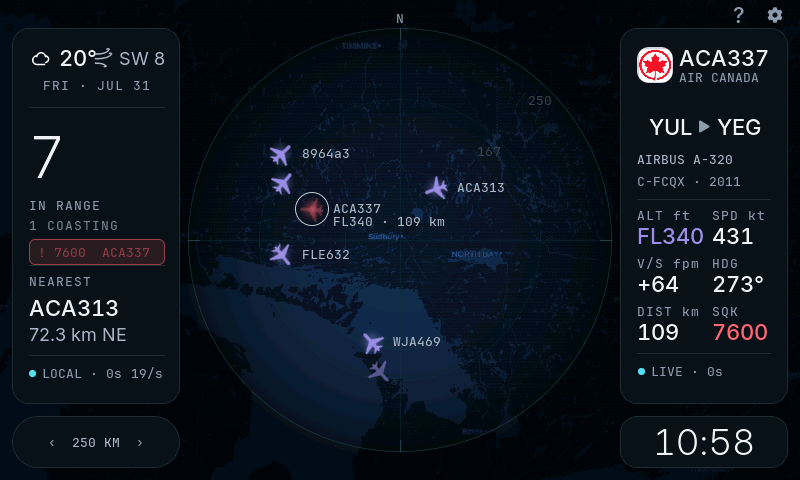
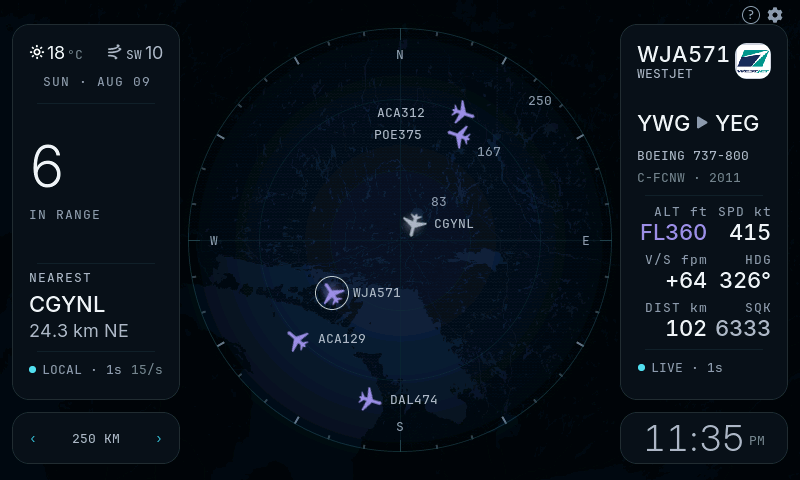
docs: lead with the real panel, move the emergency to the contrast slot
The hero was a genuine 7600 captured in August, and it had become the only
stale image in the README -- labelled dark_all map, no bearing bezel, the
clipped card edge still visible. Waiting for another real emergency is not a
documentation strategy, and the alternative is flashing a build with the state
hardcoded, which is exactly how this device once got boot-looped.

So the ordinary state leads now, from real hardware: six aircraft over the
house, a WestJet 737 pinned with its logo and route, the bezel around the
disc. Everything above the fold is a live /screen.bmp off the panel.

The emergency keeps its place as the contrast case a little further down,
rendered in the harness and captioned as such. It still carries the argument
it was there to make -- red is the one thing that overrides the altitude
palette -- and now it does so with the current chrome.

panel-normal.png is gone; the hero is that image.

diff --git a/README.md b/README.md
@@ -9,11 +9,12 @@ draws the sky above your house on a 7-inch panel.
 
 [![firmware](https://img.shields.io/badge/firmware-v7.2.4-6fc7d8?style=flat-square)](docs/HISTORY.md) [![platform](https://img.shields.io/badge/ESP32--S3-16MB%20%2F%208MB%20PSRAM-9b8ce0?style=flat-square)](docs/HARDWARE.md) [![ui](https://img.shields.io/badge/LVGL-8.3.11-ffc061?style=flat-square)](https://lvgl.io) [![data](https://img.shields.io/badge/API%20keys%20required-none-6fc7d8?style=flat-square)](#data-sources) [![install](https://img.shields.io/badge/install-one--click%20web%20flasher-9b8ce0?style=flat-square)](https://mrronco.github.io/AirRadar/flasher/) [![license](https://img.shields.io/badge/license-GPL--3.0--or--later-ffc061?style=flat-square)](LICENSE)
 
-<img src="docs/img/panel.png" width="820" alt="AirRadar main screen during a real emergency: a full-bleed dark base map with the coverage disc, seven aircraft, and Air Canada 337 squawking 7600 shown as a red glyph with a red alert strip in the Overview card and a red squawk value in the Selected card">
+<img src="docs/img/panel.png" width="820" alt="AirRadar main screen: a full-bleed dark base map under a coverage disc ringed by a graduated bearing bezel, six violet altitude-coloured aircraft with their callsigns, and a WestJet 737 pinned in the right-hand card with its logo, its Winnipeg to Edmonton route and a live instrument grid">
 
-<sub>Live capture off the device via <code>GET /screen.bmp</code> — the actual framebuffer, not a mockup.
-Air Canada 337 is squawking <b>7600</b>, radio failure: red glyph, red squawk, and the alert strip in the
-Overview card. Every other target stays violet, because red means emergency and nothing else.</sub>
+<sub>Live capture off the device via <code>GET /screen.bmp</code> — the actual framebuffer, not a
+mockup, and not a rendering of one. Six aircraft over the house on an ordinary evening; a WestJet
+737 is pinned, so the right-hand card carries its operator logo, route, airframe and a live
+instrument grid. The disc is ringed by a bearing scale graduated every 10°.</sub>
 
 </div>
 
@@ -57,12 +58,15 @@ This is the layer alone; the bearing bezel and the scope chrome are composited o
 
 <div align="center">
 
-<img src="docs/img/panel-normal.png" width="700" alt="The same display in its ordinary state: six violet altitude-coloured targets around a graduated bearing bezel, no alert strip, with a WestJet flight pinned in the Selected card showing its logo, its Winnipeg to Edmonton route and a live instrument grid">
+<img src="docs/img/panel-emergency.png" width="700" alt="The same display with an emergency: Air Canada 337 squawking 7600 drawn as a red glyph, a red 7600 alert strip in the Overview card, and a red squawk value in the Selected card, while every other target stays violet">
 
-<sub><b>The same display, nothing wrong.</b> Compare with the hero above: no alert strip in the
-Overview card, and every glyph is altitude-coloured rather than red. The emergency treatment is
-deliberately the only thing on screen that uses red. A WestJet flight is pinned here, so the
-right-hand card is filled in.</sub>
+<sub><b>The same display, something wrong.</b> A squawk of <b>7600</b> is radio failure, and it is
+the one condition that overrides the altitude palette: red glyph, red squawk value, and an alert
+strip in the Overview card naming the aircraft. Every other target stays violet, because red means
+emergency and nothing else — which is also why the airline brand tile is the only other red on the
+panel and why it is kept small. Rendered in the desktop harness: waiting for a real 7600 is not a
+documentation strategy, and the alternative is flashing a build with the state hardcoded, which is
+how this device once got boot-looped.</sub>
 
 </div>
 
